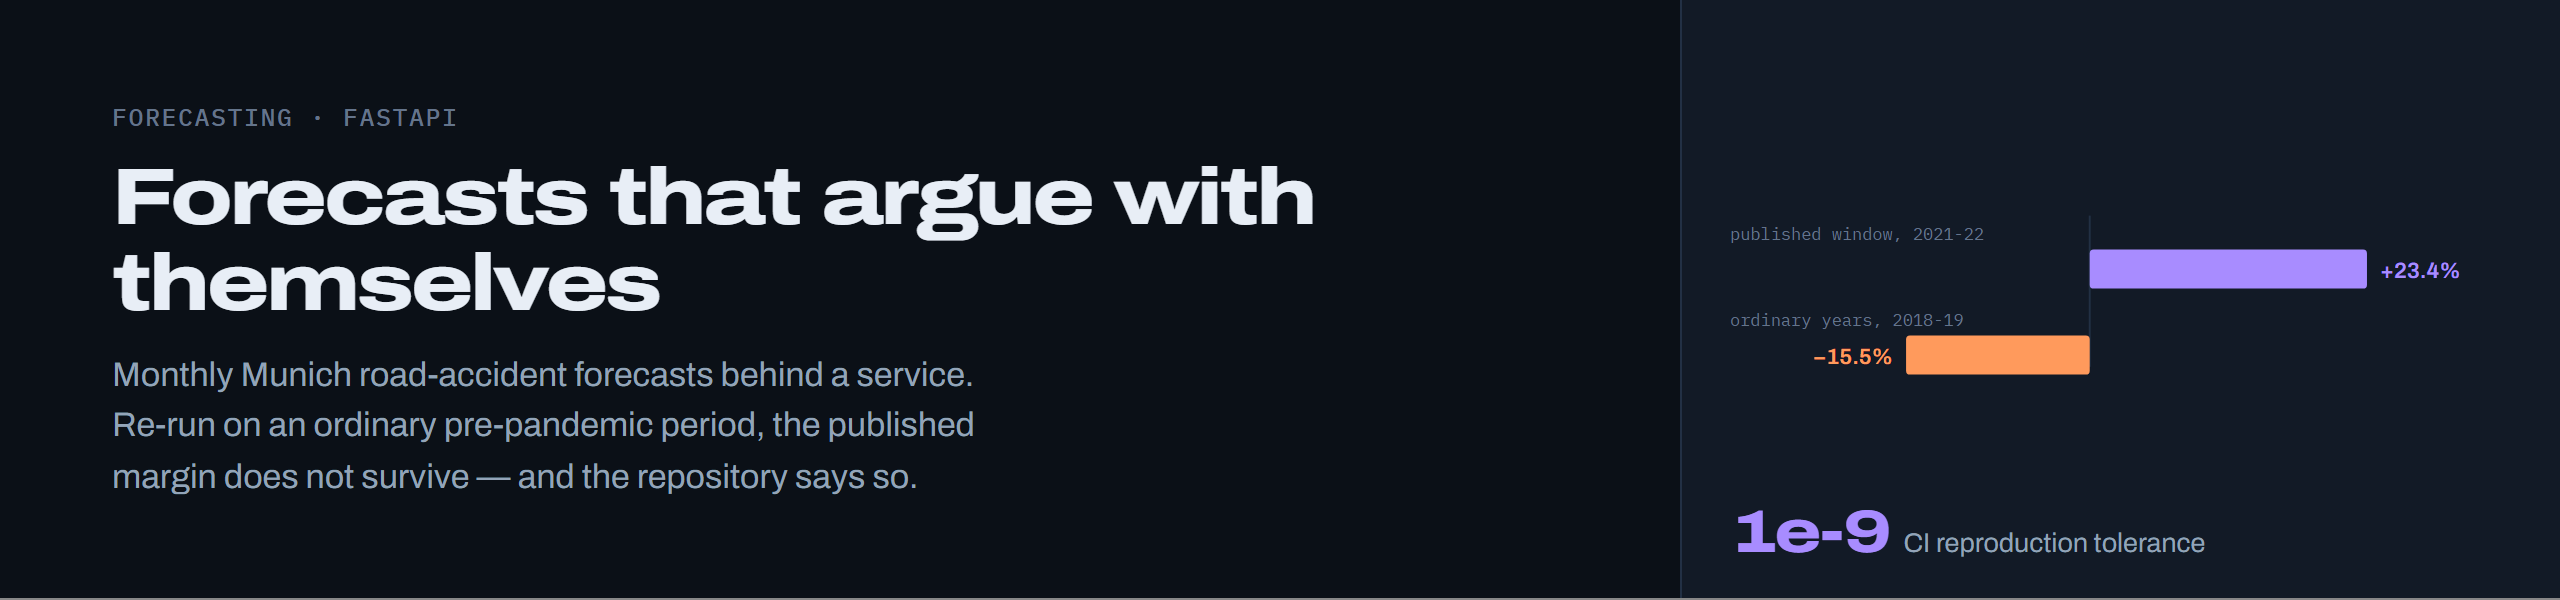
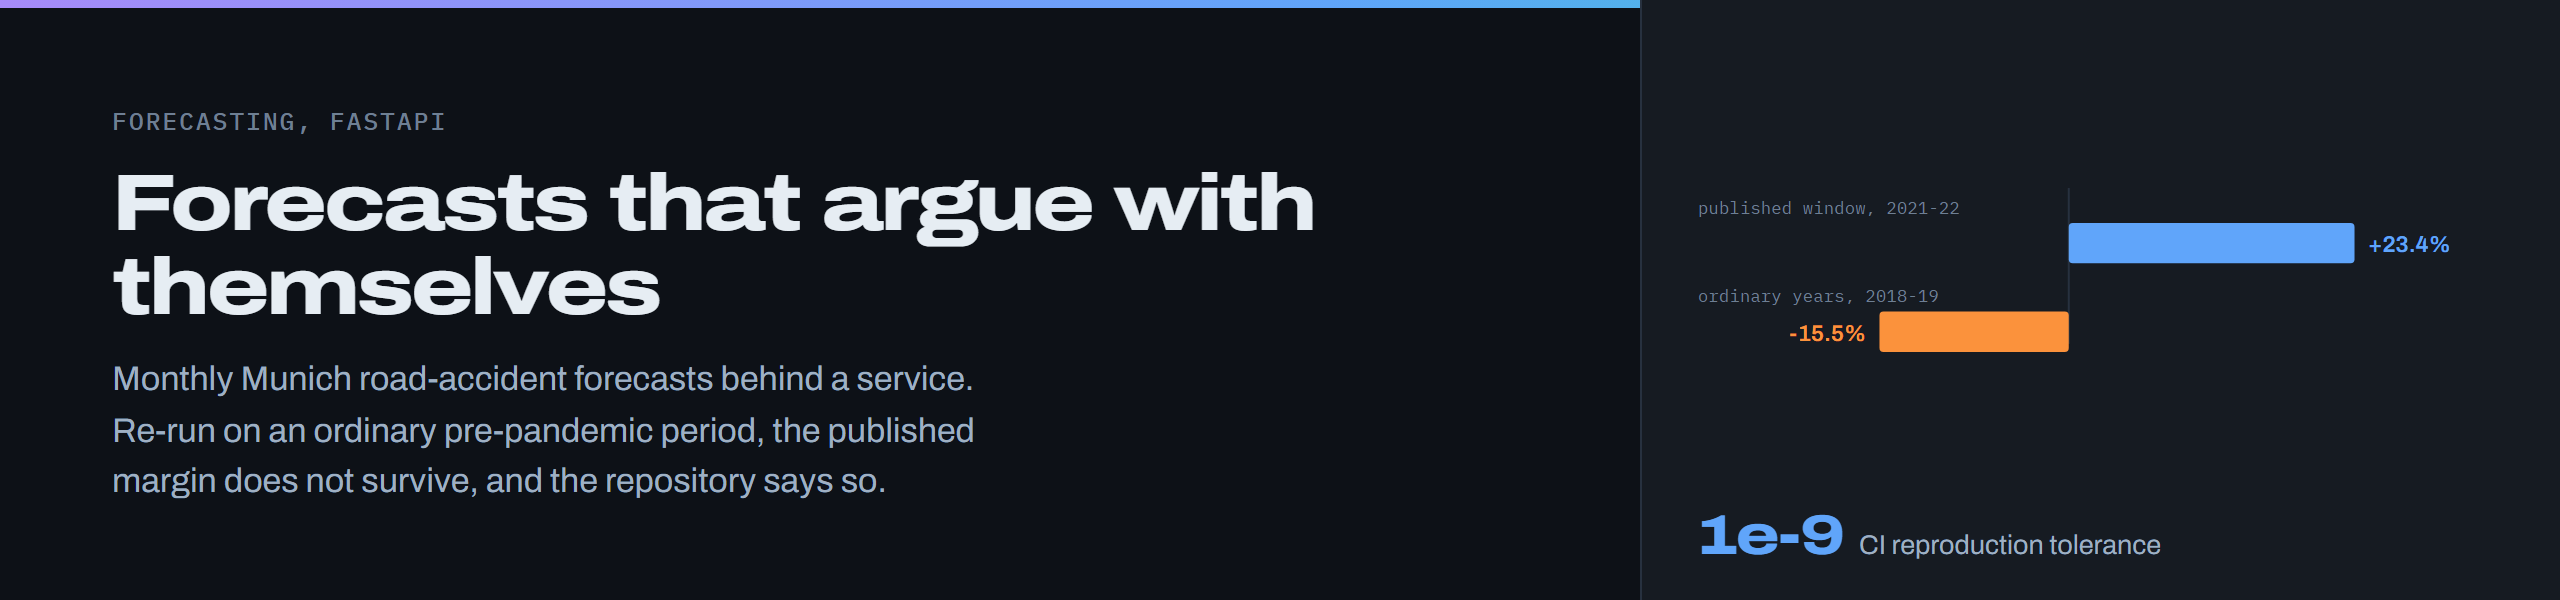
Replace machine-written punctuation and re-render the header image
Em dashes, middle dots, arrows, the multiplication sign and the superscript two
go, for the words or the plain characters that mean the same thing. The rule is
the one the CV, the GitHub profile and the website are all held to, enforced by
check_characters.py, so the four surfaces cannot drift apart.

The header image is re-rendered in the muted palette the profile moved to.
No claim, number or result changed.

diff --git a/README.md b/README.md
@@ -158,7 +158,7 @@ The first version of this project fitted one linear regression to every row of t
 city's export at once. That file holds seven different monthly series, three accident
 categories crossed with an accident type, and their averages range from
 21 to 3,512 accidents per month, a factor of 169. Fitting a single line through all
-seven, with only a year and a month as input, produced a model with an R² of 0.0009
+seven, with only a year and a month as input, produced a model with an R2 of 0.0009
 and a mean absolute error of 824 against a target averaging 780. The API it served
 accepted no way to say which series you wanted, and described its output as a number
 of deaths, which is not a quantity the dataset contains.
